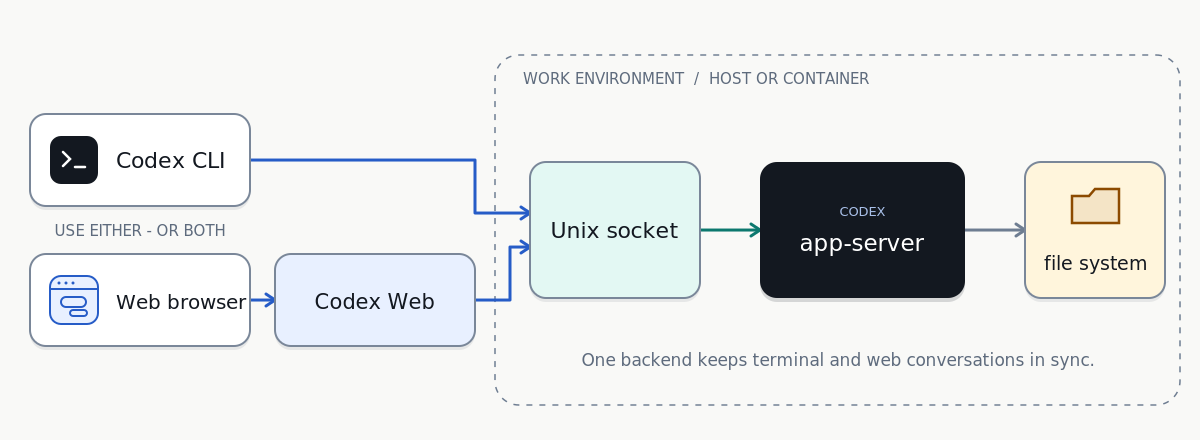
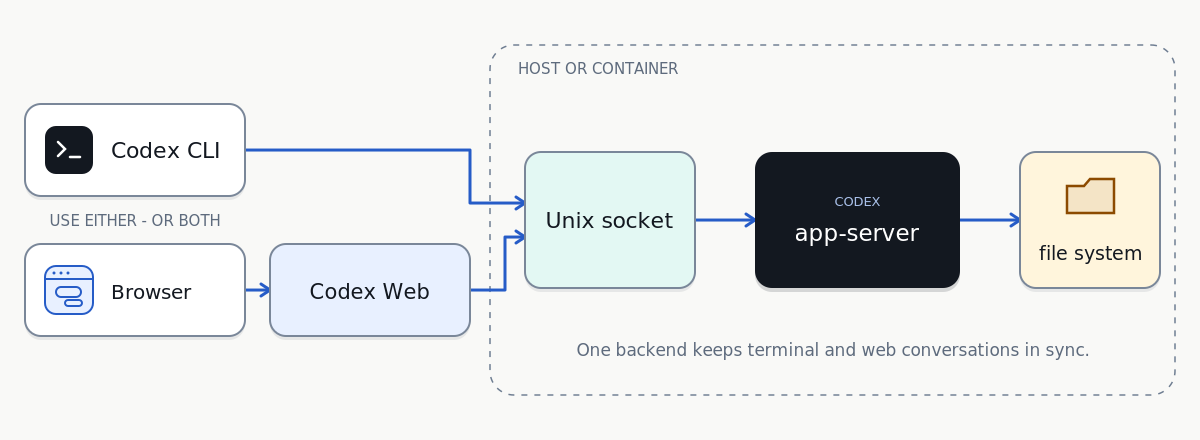
Refine architecture diagram layout

diff --git a/docs/architecture.py b/docs/architecture.py
@@ -16,7 +16,6 @@ LINE = (0.43, 0.49, 0.57)
 BORDER = (0.48, 0.53, 0.60)
 BLUE = (0.15, 0.36, 0.78)
 BLUE_PALE = (0.91, 0.94, 1.0)
-TEAL = (0.05, 0.47, 0.43)
 TEAL_PALE = (0.89, 0.97, 0.95)
 AMBER = (0.55, 0.29, 0.0)
 AMBER_PALE = (1.0, 0.96, 0.86)
@@ -166,6 +165,7 @@ def draw(surface_factory, width: int = WIDTH, height: int = HEIGHT):
 
     ctx.set_source_rgb(*BG)
     ctx.paint()
+    ctx.translate(-5, -10)
 
     ctx.set_source_rgb(*LINE)
     ctx.set_line_width(1.5)
@@ -175,13 +175,13 @@ def draw(surface_factory, width: int = WIDTH, height: int = HEIGHT):
     ctx.set_dash([])
 
     text(ctx, "USE EITHER - OR BOTH", 140, 236, 15, MUTED, centered=True)
-    text(ctx, "WORK ENVIRONMENT  /  HOST OR CONTAINER", 523, 84, 15, MUTED)
+    text(ctx, "HOST OR CONTAINER", 523, 84, 15, MUTED)
 
     arrow(ctx, [(250, 160), (475, 160), (475, 213), (530, 213)], BLUE)
     arrow(ctx, [(250, 300), (275, 300)], BLUE)
     arrow(ctx, [(475, 300), (510, 300), (510, 247), (530, 247)], BLUE)
-    arrow(ctx, [(700, 230), (760, 230)], TEAL)
-    arrow(ctx, [(965, 230), (1025, 230)], LINE)
+    arrow(ctx, [(700, 230), (760, 230)], BLUE)
+    arrow(ctx, [(965, 230), (1025, 230)], BLUE)
 
     card(ctx, 30, 114, 220, 92)
     terminal_icon(ctx, 50, 136)
@@ -189,7 +189,7 @@ def draw(surface_factory, width: int = WIDTH, height: int = HEIGHT):
 
     card(ctx, 30, 254, 220, 92)
     browser_icon(ctx, 50, 276)
-    text(ctx, "Web browser", 116, 309, 20, INK)
+    text(ctx, "Browser", 116, 309, 20, INK)
 
     card(ctx, 275, 254, 200, 92, BLUE_PALE)
     text(ctx, "Codex Web", 375, 309, 21, INK, centered=True)
